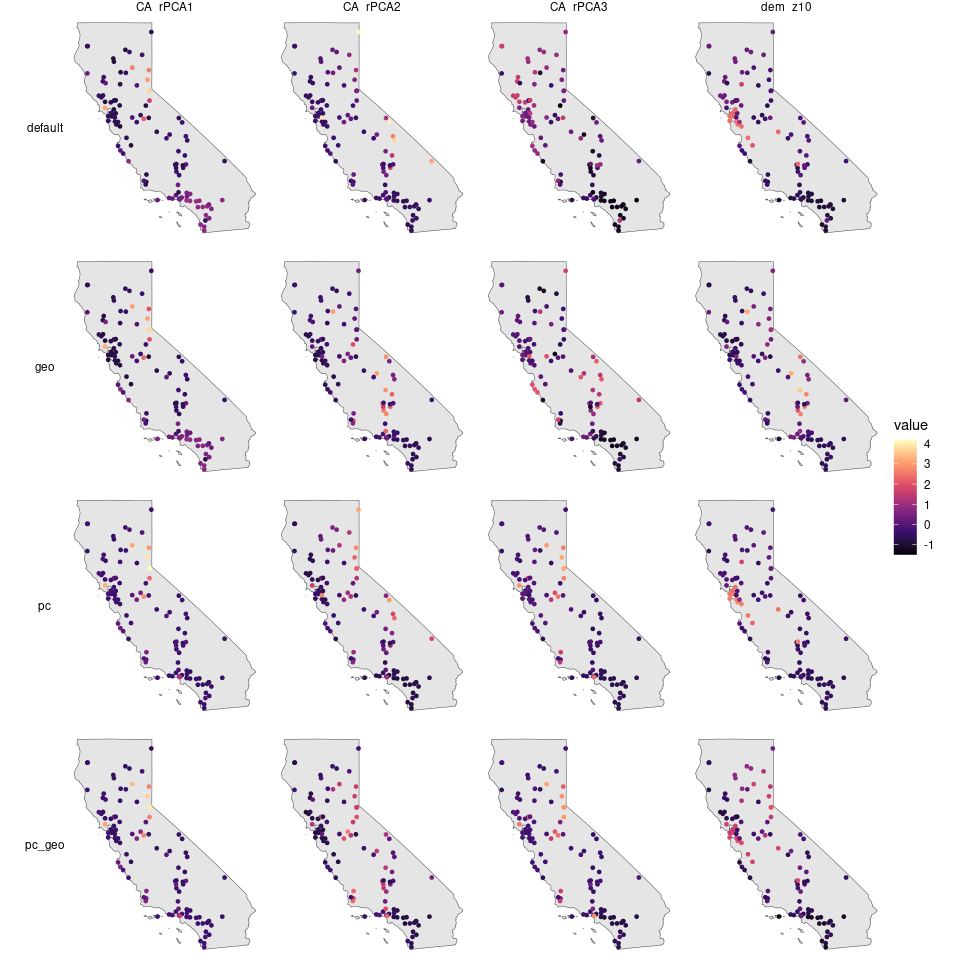
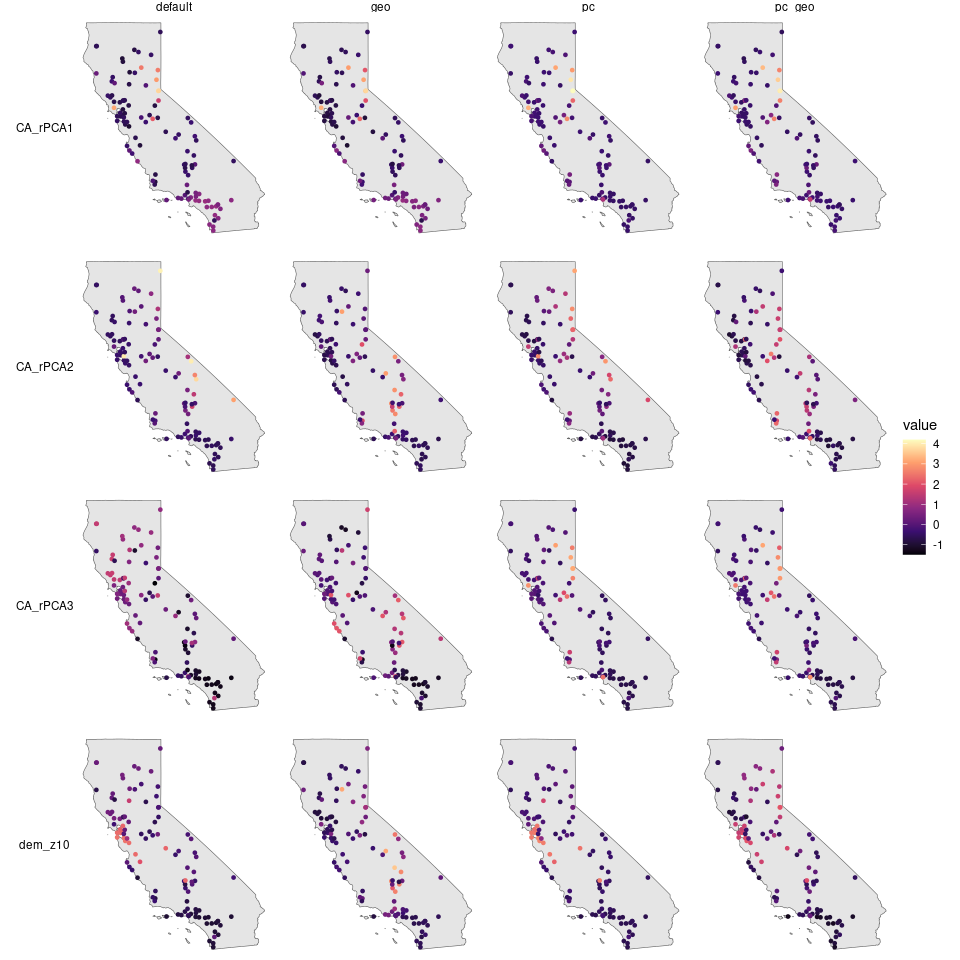
updatepics

diff --git a/analysis/gea/gea.md b/analysis/gea/gea.md
@@ -173,7 +173,7 @@ results <- map(c("default", "geo", "pc", "pc_geo"), ~{
 ggplot(results) +
   geom_sf(data = ca) +
   geom_sf(aes(col = value), cex = 1) + 
-  facet_grid(model~name, switch = "y") +
+  facet_grid(name~model, switch = "y") +
   scale_color_viridis_c(option = "magma") +
   theme_void()
 ```